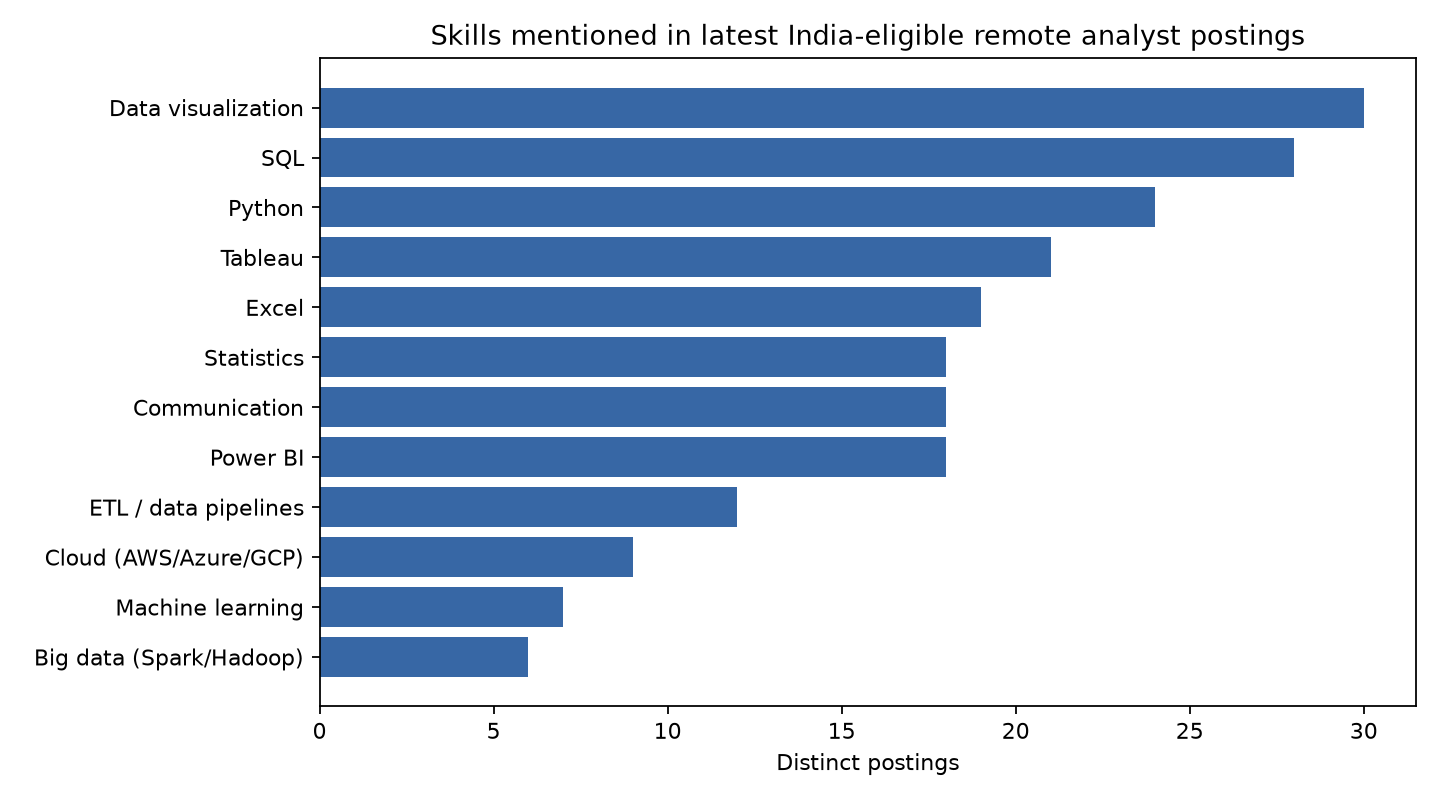
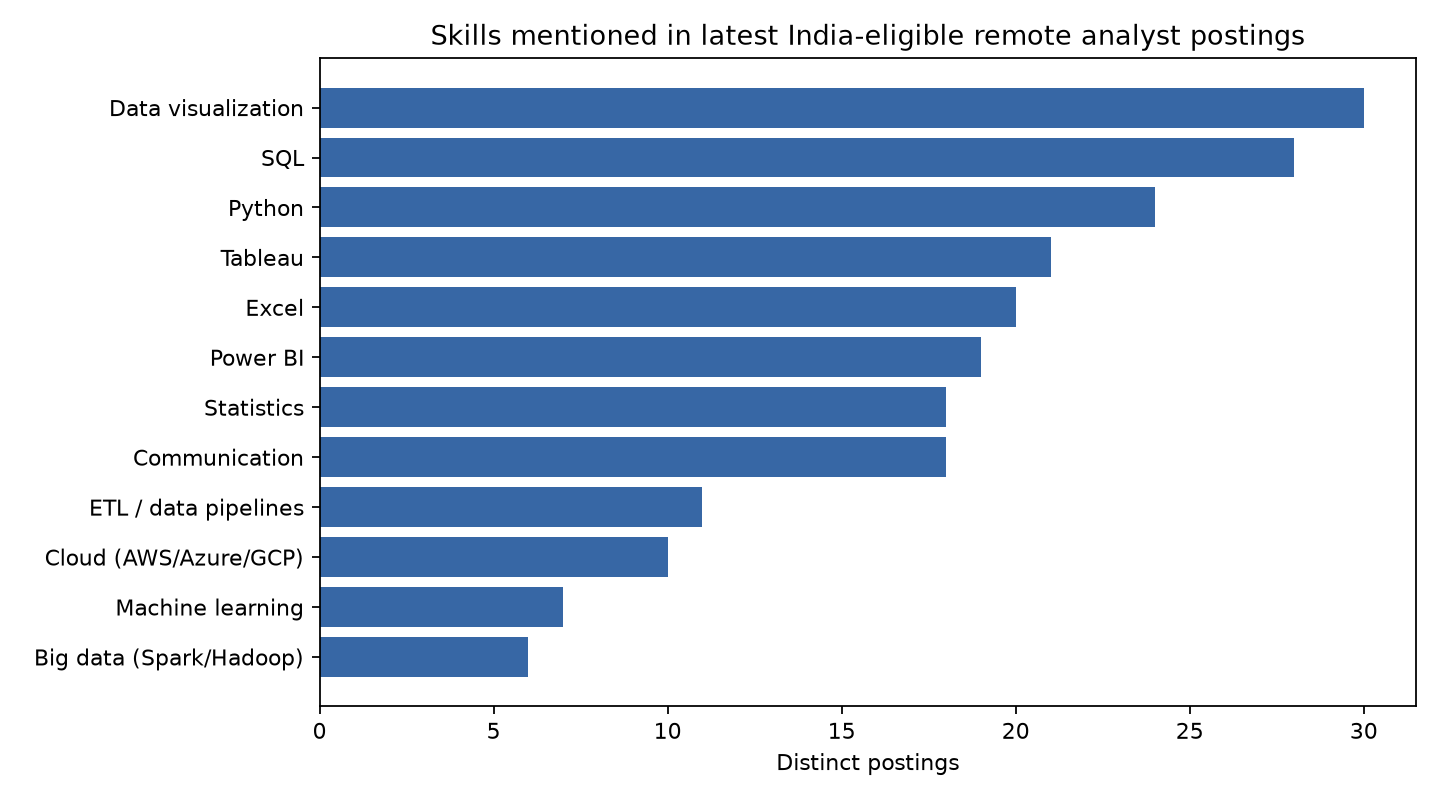
Refresh analyst job-market report

diff --git a/india-data-analyst-job-market-capstone/reports/dashboard.html b/india-data-analyst-job-market-capstone/reports/dashboard.html
@@ -1,8 +1,8 @@
 <!doctype html><html lang="en"><meta charset="utf-8"><meta name="viewport" content="width=device-width,initial-scale=1"><title>India Remote Data Analyst Job Market</title>
     <style>:root{color-scheme:dark;--bg:#080b11;--panel:#101622;--line:#243044;--text:#ecf2ff;--muted:#9ba9bd;--accent:#91a8ff;--mint:#79e0c1}*{box-sizing:border-box}body{margin:0;background:radial-gradient(ellipse at 80% -20%,#182441 0,transparent 46%),var(--bg);color:var(--text);font:16px/1.6 Inter,system-ui,sans-serif}main{max-width:1040px;margin:auto;padding:34px 22px 70px}nav,footer{color:var(--muted);font-size:13px;border-bottom:1px solid var(--line);padding:12px 0 20px}footer{border:0;border-top:1px solid var(--line);margin-top:32px;padding-top:20px}h1{font-size:clamp(38px,7vw,68px);line-height:1.05;letter-spacing:-.06em}.note,.panel{padding:20px;border:1px solid var(--line);border-radius:14px;background:var(--panel);margin:24px 0}.note{border-color:#48537a}table{border-collapse:collapse;width:100%}th,td{text-align:left;padding:10px;border-bottom:1px solid var(--line)}th{color:var(--mint)}img{max-width:100%;height:auto}a{color:var(--accent)}</style>
     <main><nav>BHARATH B · DATA ANALYTICS</nav><h1>What do data analyst job ads ask for?</h1><p>India-eligible remote listings · refreshed by weekly snapshots</p>
-    <section class="note">Source: <a href="https://himalayas.app/api">Himalayas public jobs API</a>. The API returned 414 keyword candidates; the title filter retained 38 analyst listings. This is a remote-job sample filtered for India eligibility, not a census, and does not represent Chennai or on-site roles.</section>
-    <section class="panel"><h2>Skills mentioned</h2><img src="skill_demand.png" alt="Skill demand chart"><table><thead><tr><th>Skill</th><th>Listings</th><th>Share</th></tr></thead><tbody><tr><td>Data visualization</td><td>30</td><td>78.9%</td></tr><tr><td>SQL</td><td>28</td><td>73.7%</td></tr><tr><td>Python</td><td>24</td><td>63.2%</td></tr><tr><td>Tableau</td><td>21</td><td>55.3%</td></tr><tr><td>Excel</td><td>19</td><td>50.0%</td></tr><tr><td>Power BI</td><td>18</td><td>47.4%</td></tr><tr><td>Communication</td><td>18</td><td>47.4%</td></tr><tr><td>Statistics</td><td>18</td><td>47.4%</td></tr><tr><td>ETL / data pipelines</td><td>12</td><td>31.6%</td></tr><tr><td>Cloud (AWS/Azure/GCP)</td><td>9</td><td>23.7%</td></tr></tbody></table></section>
-    <section class="panel"><h2>Advertised salaries by experience label</h2><table><thead><tr><th>Experience</th><th>Currency</th><th>Period</th><th>Salary listings</th><th>Mean midpoint</th></tr></thead><tbody><tr><td>mid</td><td>INR</td><td>annual</td><td>2</td><td>637,500</td></tr></tbody></table><p>Only postings with disclosed salary are included. Currencies and pay periods are kept separate.</p></section>
-    <section class="panel"><h2>Weekly listing counts</h2><img src="posting_counts.png" alt="Listing counts across weekly pulls"><table><thead><tr><th>Collected (UTC)</th><th>Listings</th></tr></thead><tbody><tr><td>2026-10-26T11:50:24+00:00</td><td>46</td></tr><tr><td>2026-10-27T11:00:10+00:00</td><td>45</td></tr><tr><td>2026-11-02T14:09:58+00:00</td><td>38</td></tr></tbody></table></section>
+    <section class="note">Source: <a href="https://himalayas.app/api">Himalayas public jobs API</a>. The API returned 415 keyword candidates; the title filter retained 38 analyst listings. This is a remote-job sample filtered for India eligibility, not a census, and does not represent Chennai or on-site roles.</section>
+    <section class="panel"><h2>Skills mentioned</h2><img src="skill_demand.png" alt="Skill demand chart"><table><thead><tr><th>Skill</th><th>Listings</th><th>Share</th></tr></thead><tbody><tr><td>Data visualization</td><td>30</td><td>78.9%</td></tr><tr><td>SQL</td><td>28</td><td>73.7%</td></tr><tr><td>Python</td><td>24</td><td>63.2%</td></tr><tr><td>Tableau</td><td>21</td><td>55.3%</td></tr><tr><td>Excel</td><td>20</td><td>52.6%</td></tr><tr><td>Power BI</td><td>19</td><td>50.0%</td></tr><tr><td>Communication</td><td>18</td><td>47.4%</td></tr><tr><td>Statistics</td><td>18</td><td>47.4%</td></tr><tr><td>ETL / data pipelines</td><td>11</td><td>28.9%</td></tr><tr><td>Cloud (AWS/Azure/GCP)</td><td>10</td><td>26.3%</td></tr></tbody></table></section>
+    <section class="panel"><h2>Advertised salaries by experience label</h2><table><thead><tr><th>Experience</th><th>Currency</th><th>Period</th><th>Salary listings</th><th>Mean midpoint</th></tr></thead><tbody><tr><td>mid</td><td>INR</td><td>annual</td><td>3</td><td>702,517</td></tr><tr><td>mid</td><td>USD</td><td>monthly</td><td>1</td><td>1,650</td></tr></tbody></table><p>Only postings with disclosed salary are included. Currencies and pay periods are kept separate.</p></section>
+    <section class="panel"><h2>Weekly listing counts</h2><img src="posting_counts.png" alt="Listing counts across weekly pulls"><table><thead><tr><th>Collected (UTC)</th><th>Listings</th></tr></thead><tbody><tr><td>2026-10-26T11:50:24+00:00</td><td>46</td></tr><tr><td>2026-10-27T11:00:10+00:00</td><td>45</td></tr><tr><td>2026-11-02T14:09:58+00:00</td><td>38</td></tr><tr><td>2026-11-09T14:40:02+00:00</td><td>38</td></tr></tbody></table></section>
     <p><a href="findings.md">Written findings</a> · <a href="skill_demand_latest.csv">Skill data</a> · <a href="salary_by_experience.csv">Salary data</a></p><footer>Analysis of remote listings available to India-based applicants. Source: Himalayas. Raw descriptions are not published.</footer></main></html>

diff --git a/india-data-analyst-job-market-capstone/reports/findings.md b/india-data-analyst-job-market-capstone/reports/findings.md
@@ -2,7 +2,7 @@
 
 Data source: [Himalayas public jobs API](https://himalayas.app/api). This is a remote-job search sample filtered for India eligibility, not all jobs in India.
 
-Successful pulls: 3. The latest API search reported 414 keyword candidates; the title filter retained 38 distinct analyst listings.
+Successful pulls: 4. The latest API search reported 415 keyword candidates; the title filter retained 38 distinct analyst listings.
 
 The collector keeps data analyst, analytics analyst, and business-intelligence analyst titles; content-only matches are excluded.
 
@@ -14,16 +14,16 @@ Counts are from the latest pull (38 listings); a listing may mention multiple sk
 - SQL: 28 listings (73.7%).
 - Python: 24 listings (63.2%).
 - Tableau: 21 listings (55.3%).
-- Excel: 19 listings (50.0%).
-- Power BI: 18 listings (47.4%).
+- Excel: 20 listings (52.6%).
+- Power BI: 19 listings (50.0%).
 - Communication: 18 listings (47.4%).
 - Statistics: 18 listings (47.4%).
-- ETL / data pipelines: 12 listings (31.6%).
-- Cloud (AWS/Azure/GCP): 9 listings (23.7%).
+- ETL / data pipelines: 11 listings (28.9%).
+- Cloud (AWS/Azure/GCP): 10 listings (26.3%).
 
 ## Advertised salary coverage
 
-2 of 38 latest listings (5.3%) disclose a salary range. See `salary_by_experience.csv` for salary groups split by experience label, currency, and period. Values are not converted across currencies or periods.
+4 of 38 latest listings (10.5%) disclose a salary range. See `salary_by_experience.csv` for salary groups split by experience label, currency, and period. Values are not converted across currencies or periods.
 
 ## Change across weekly pulls
 
